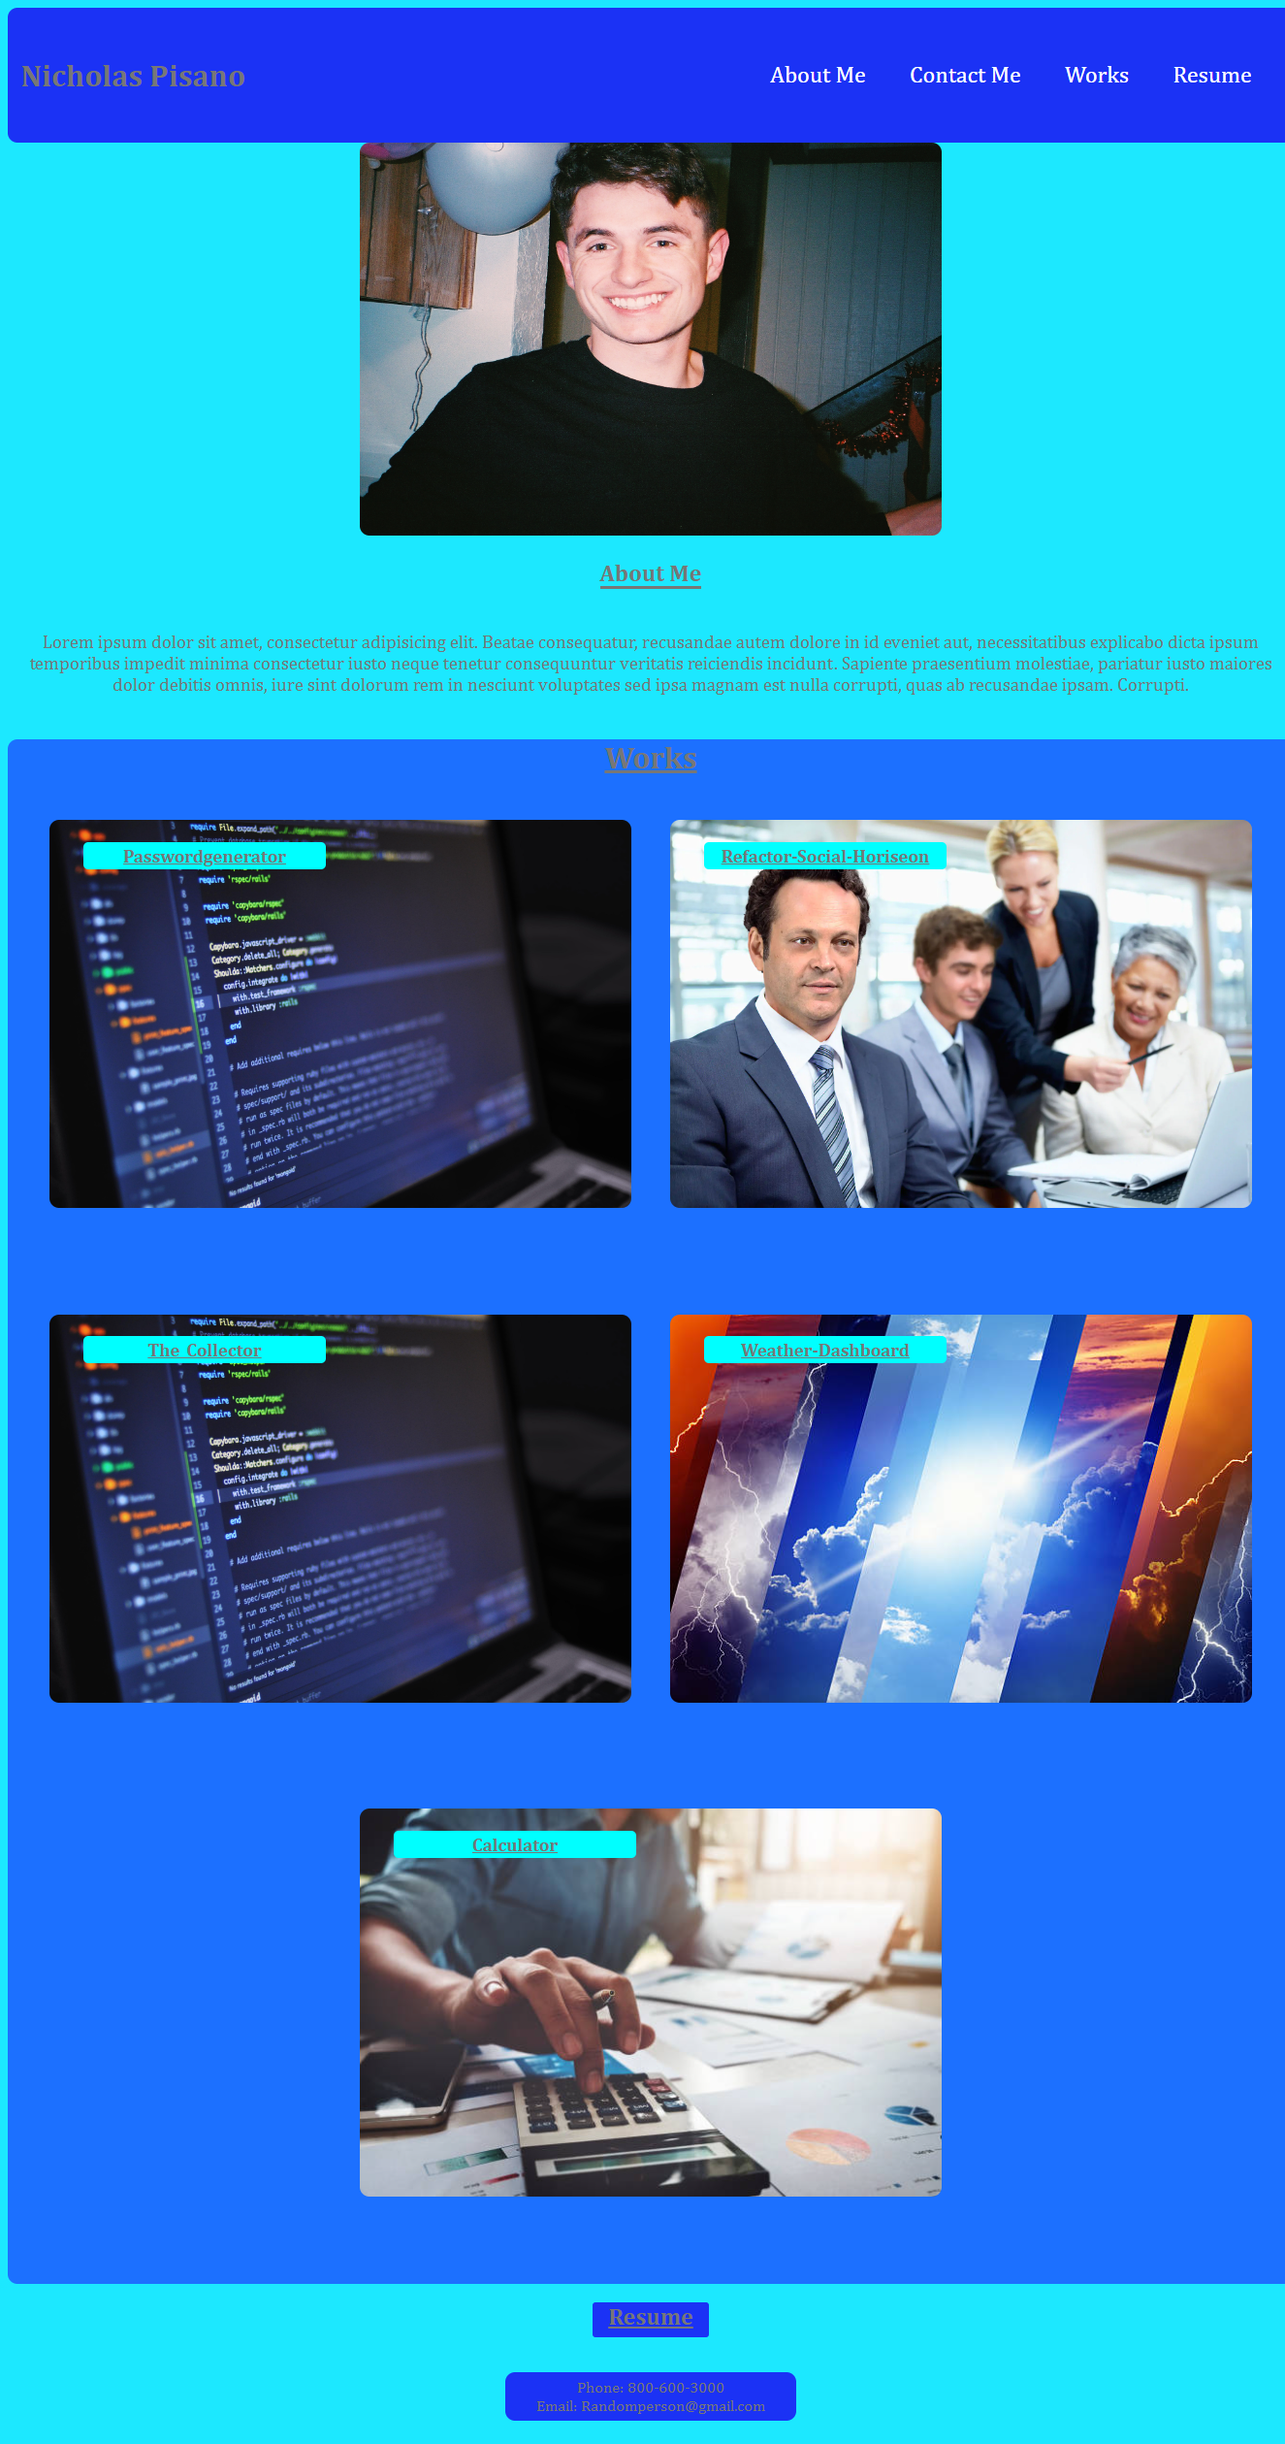
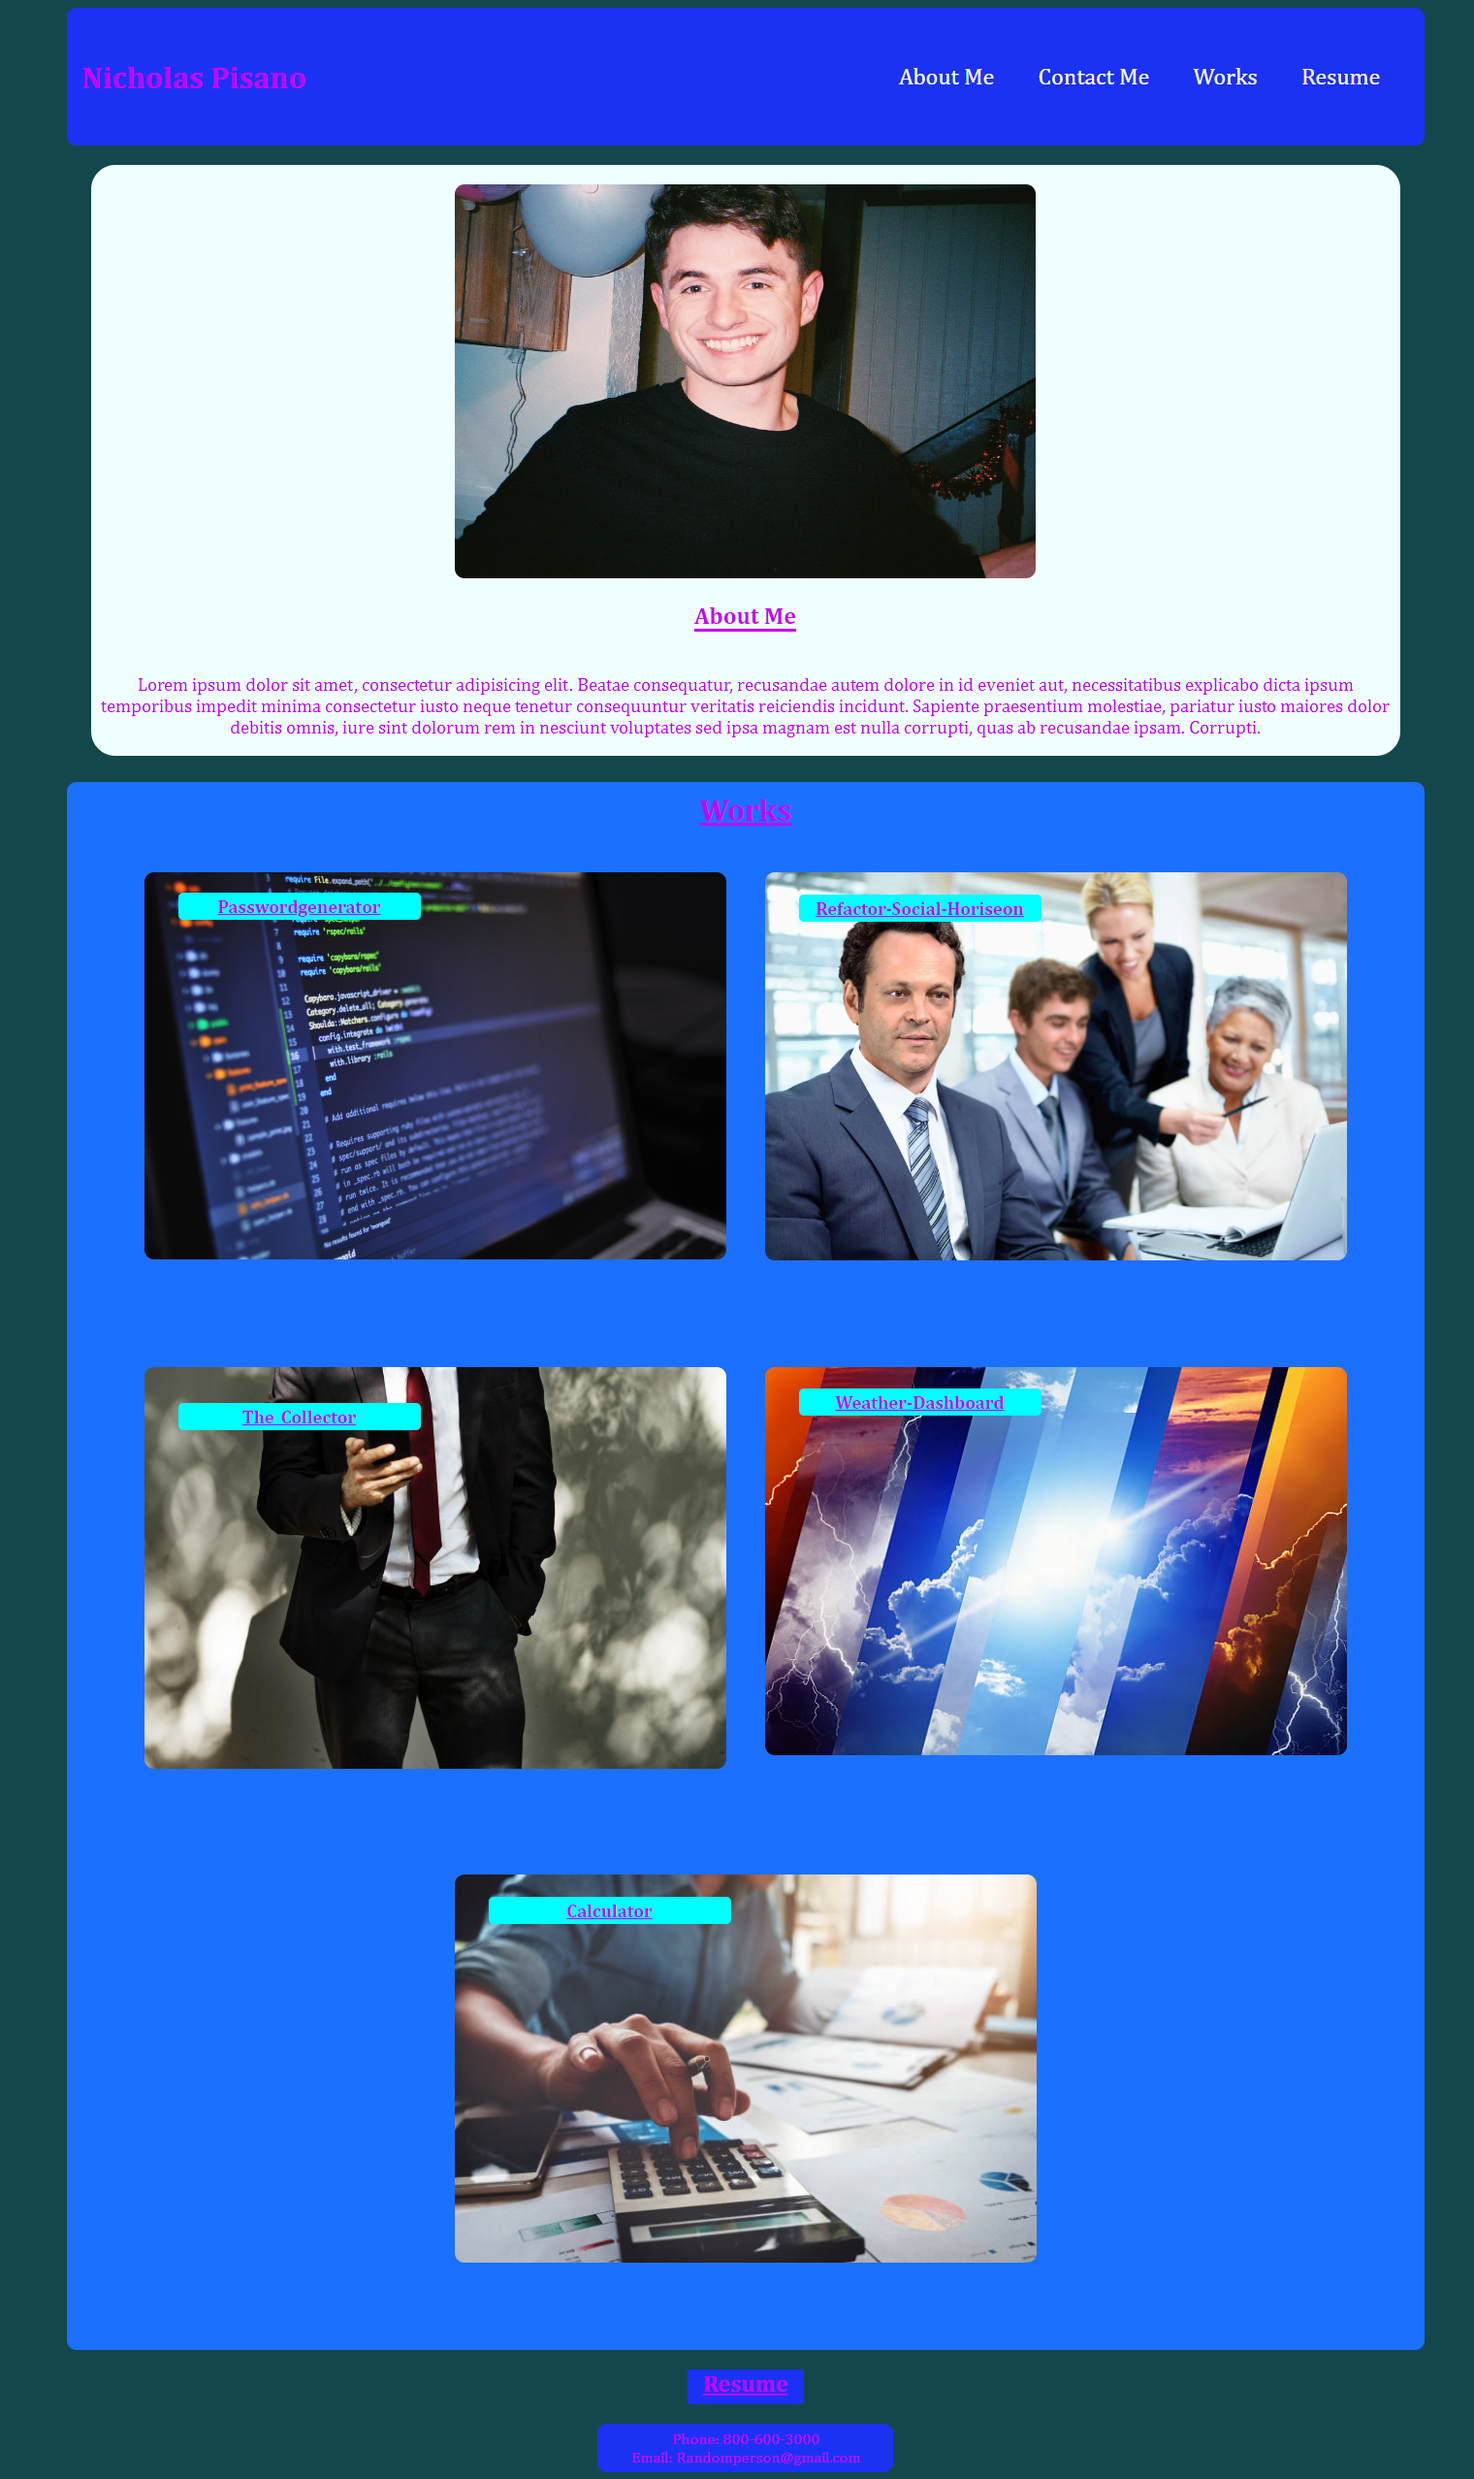
Made html and css cleaner

diff --git a/assests/css/styles.css b/assests/css/styles.css
@@ -1,7 +1,7 @@
 * {
     box-sizing: border-box;
     font-family: Cambria, Cochin, Georgia, Times, 'Times New Roman', serif;
-    color: #777;
+    color:#c400f5;
 }
 
 :root {
@@ -16,7 +16,7 @@
 }
 
 html {
-    background-color: var(--lightBlue);
+    background-color:#13474c;
 }
 
 
@@ -28,6 +28,9 @@ header {
     background-color: var(--darkestBlue);
     color: #fff;
     border-radius: 10px;
+    max-width: 1400px;
+    min-width: 350px;
+    margin: auto;
 }
 
 header h1 {
@@ -108,10 +111,18 @@ footer ul {
     padding: 3px 0px 3px 0px;
 }
 
+.projects a h3:hover {
+    box-shadow: #c400f5 5px 5px 5px;
+}
+
 .projects a img {
     border-radius: 10px;
     max-width: 600px;
     min-width: 300px;
+}
+
+.projects a img:hover {
+    box-shadow: #c400f5 5px 5px 5px;
 }
 
 .Resume a {
@@ -146,6 +157,12 @@ footer ul {
     flex-wrap: wrap;
     flex-direction: column;
     align-items: center;
+    max-width: 1350px;
+    margin: auto;
+    background-color: azure;
+    margin-top: 20px;
+    padding-top: 10px;
+    border-radius: 25px;
 }
 
 #aboutMe h3 {
@@ -157,6 +174,7 @@ footer ul {
 #aboutMe p {
     font-size: larger;
     text-align: center;
+    max-width: 1350px;
 }
 
 h2#Works-Title {
@@ -164,9 +182,13 @@ h2#Works-Title {
     text-decoration: underline;
     font-size: xx-large;
     font-weight: bolder;
+    padding-top: 10px;
 }
 
 article.Works {
     background-color: var(--darkBlue);
     border-radius: 10px;
+    max-width: 1400px;
+    min-width: 350px;
+    margin: auto;
 }

diff --git a/index.html b/index.html
@@ -54,7 +54,7 @@
         <article class="Works" id="Works">
             <h2 id="Works-Title">Works</h2>
             <div class="projects">
-                <a href="https://github.com/Lekashi?tab=repositories">
+                <a id="mainWork" href="https://github.com/Lekashi?tab=repositories">
                     <img alt="A picture with a computer with lots of code written on the screen"
                         src="./assests/images/passwordgenerator.jpg">
                     <h3>Passwordgenerator</h3>
